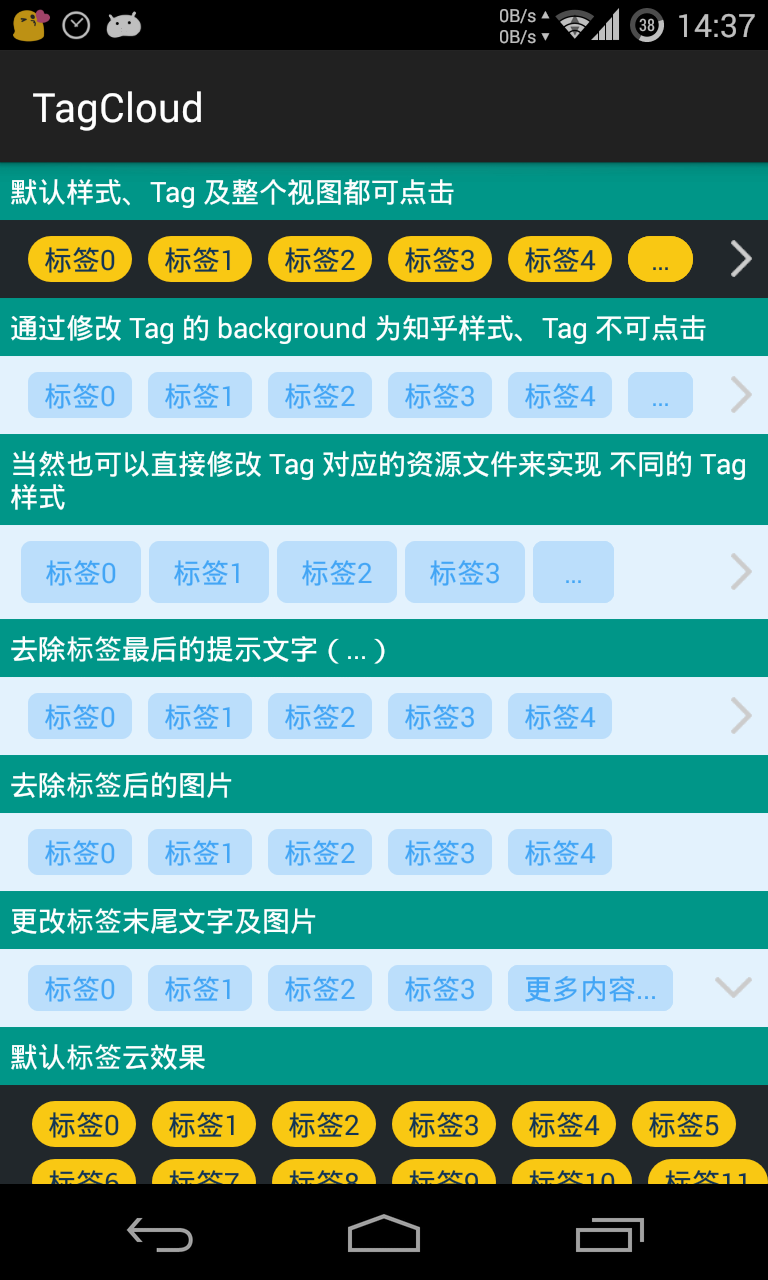
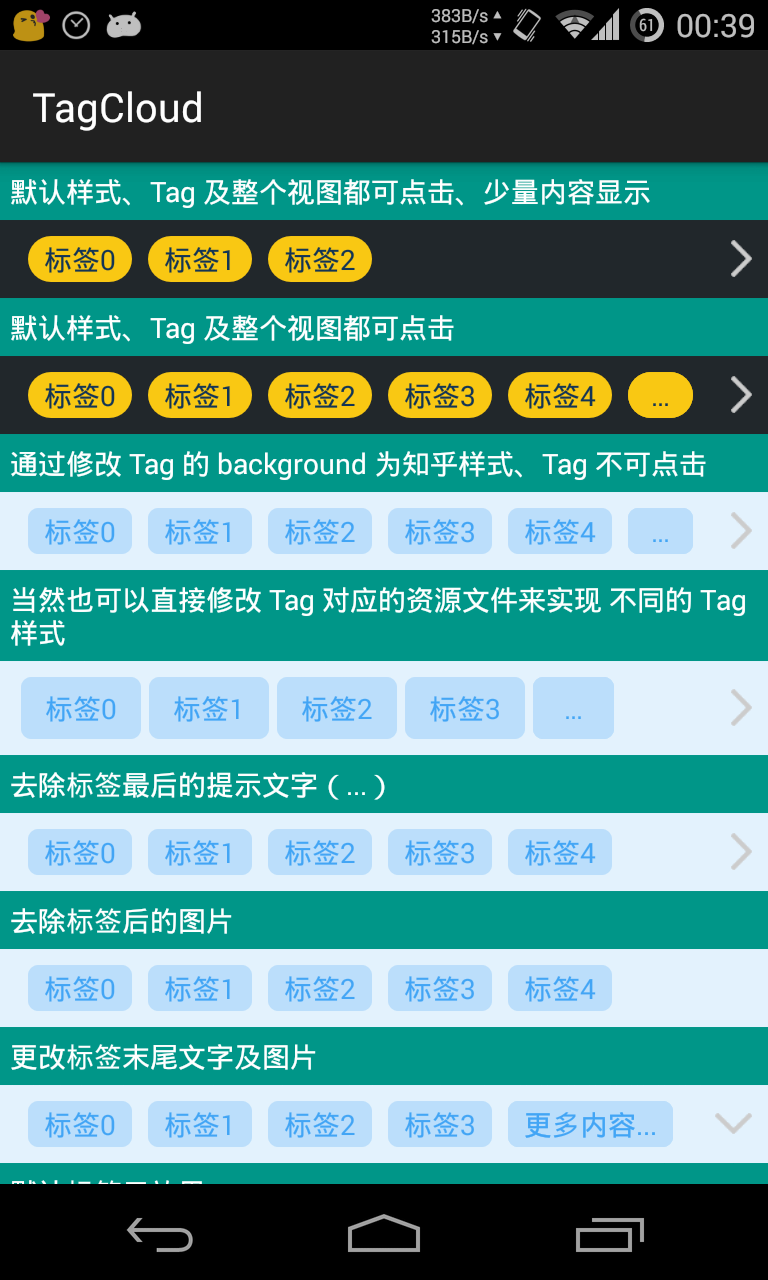
修复 SingleLine 模式下，Tag 数量较少时显示尾部问题和图片错乱的 Bug、添加演示 Demo

diff --git a/tagview/src/main/java/me/next/tagview/TagCloudView.java b/tagview/src/main/java/me/next/tagview/TagCloudView.java
@@ -21,6 +21,7 @@ import java.util.List;
 public class TagCloudView extends ViewGroup{
 
     private static final String TAG = TagCloudView.class.getSimpleName();
+    private static final int TYPE_TEXT_NORMAL = 1;
     private List<String> tags;
 
     private LayoutInflater mInflater;
@@ -214,6 +215,13 @@ public class TagCloudView extends ViewGroup{
         int childHeight;
 
         totalWidth += mViewBorder;
+
+        int textTotalWidth = getTextTotalWidth();
+        if (textTotalWidth < sizeWidth - imageWidth) {
+            endText = null;
+            endTextWidth = 0;
+        }
+
         for (int i = 0; i < getChildCount(); i++) {
             View child = getChildAt(i);
             childWidth = child.getMeasuredWidth();
@@ -227,15 +235,17 @@ public class TagCloudView extends ViewGroup{
                 totalWidth += childWidth + mTagBorderHor;
             }
 
-            if (totalWidth + mTagBorderHor + mViewBorder + mViewBorder + endTextWidth + imageWidth < sizeWidth) {
-                child.layout(
-                        totalWidth - childWidth + mTagBorderVer,
-                        totalHeight - childHeight,
-                        totalWidth + mTagBorderVer,
-                        totalHeight);
-            } else {
-                totalWidth -= childWidth + mViewBorder;
-                break;
+            if (child.getTag() != null && child.getTag() == TYPE_TEXT_NORMAL) {
+                if (totalWidth + mTagBorderHor + mViewBorder + mViewBorder + endTextWidth + imageWidth < sizeWidth) {
+                    child.layout(
+                            totalWidth - childWidth + mTagBorderVer,
+                            totalHeight - childHeight,
+                            totalWidth + mTagBorderVer,
+                            totalHeight);
+                } else {
+                    totalWidth -= childWidth + mViewBorder;
+                    break;
+                }
             }
         }
 
@@ -300,6 +310,20 @@ public class TagCloudView extends ViewGroup{
         return totalHeight + mViewBorder;
     }
 
+    private int getTextTotalWidth() {
+        if (getChildCount() == 0) {
+            return 0;
+        }
+        int totalChildWidth = 0;
+        for (int i = 0; i < getChildCount(); i++) {
+            View child = getChildAt(i);
+            if (child.getTag() != null && (int)child.getTag() == TYPE_TEXT_NORMAL) {
+                totalChildWidth += child.getMeasuredWidth() + mViewBorder;
+            }
+        }
+        return totalChildWidth + mTagBorderHor * 2;
+    }
+
     @Override
     public LayoutParams generateLayoutParams(AttributeSet attrs) {
         return super.generateLayoutParams(attrs);
@@ -318,6 +342,7 @@ public class TagCloudView extends ViewGroup{
                 LayoutParams layoutParams = new LayoutParams(LayoutParams.WRAP_CONTENT, LayoutParams.WRAP_CONTENT);
                 tagView.setLayoutParams(layoutParams);
                 tagView.setText(tags.get(i));
+                tagView.setTag(TYPE_TEXT_NORMAL);
                 final int finalI = i;
                 tagView.setOnClickListener(new OnClickListener() {
                     @Override

diff --git a/app/src/main/java/me/next/tagclouddemo/MainActivity.java b/app/src/main/java/me/next/tagclouddemo/MainActivity.java
@@ -18,11 +18,23 @@ public class MainActivity extends AppCompatActivity implements TagCloudView.OnTa
         super.onCreate(savedInstanceState);
         setContentView(R.layout.activity_main);
 
-        TagCloudView tagCloudView1 = (TagCloudView) findViewById(R.id.tag_cloud_view_1);
         List<String> tags = new ArrayList<>();
         for (int i = 0; i < 20; i++) {
             tags.add("标签" + i);
         }
+
+        TagCloudView tagCloudView0 = (TagCloudView) findViewById(R.id.tag_cloud_view_0);
+        tagCloudView0.setTags(tags.subList(0, 4));
+        tagCloudView0.setOnTagClickListener(this);
+        tagCloudView0.setOnClickListener(new View.OnClickListener() {
+            @Override
+            public void onClick(View view) {
+                Toast.makeText(getApplicationContext(), "TagView onClick",
+                        Toast.LENGTH_SHORT).show();
+            }
+        });
+
+        TagCloudView tagCloudView1 = (TagCloudView) findViewById(R.id.tag_cloud_view_1);
         tagCloudView1.setTags(tags);
         tagCloudView1.setOnTagClickListener(this);
         tagCloudView1.setOnClickListener(new View.OnClickListener() {
